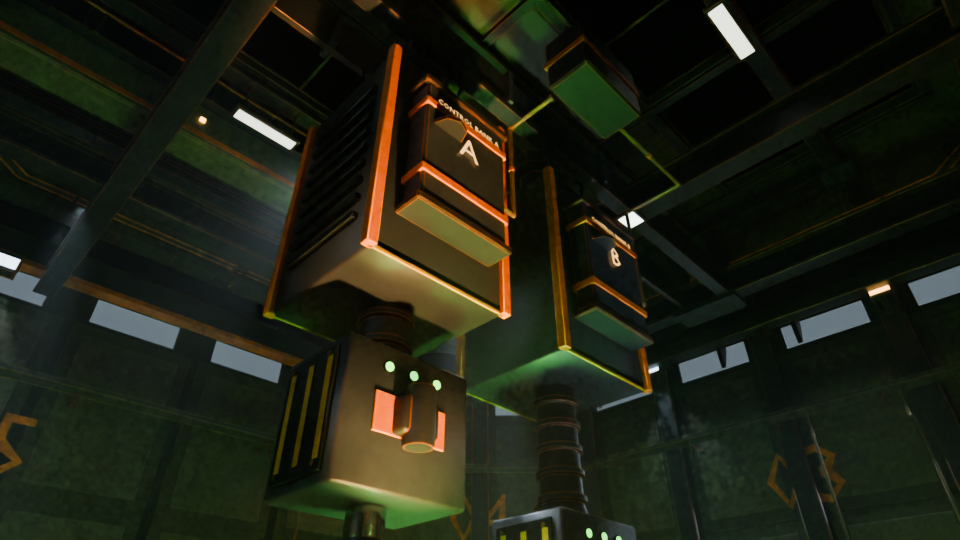
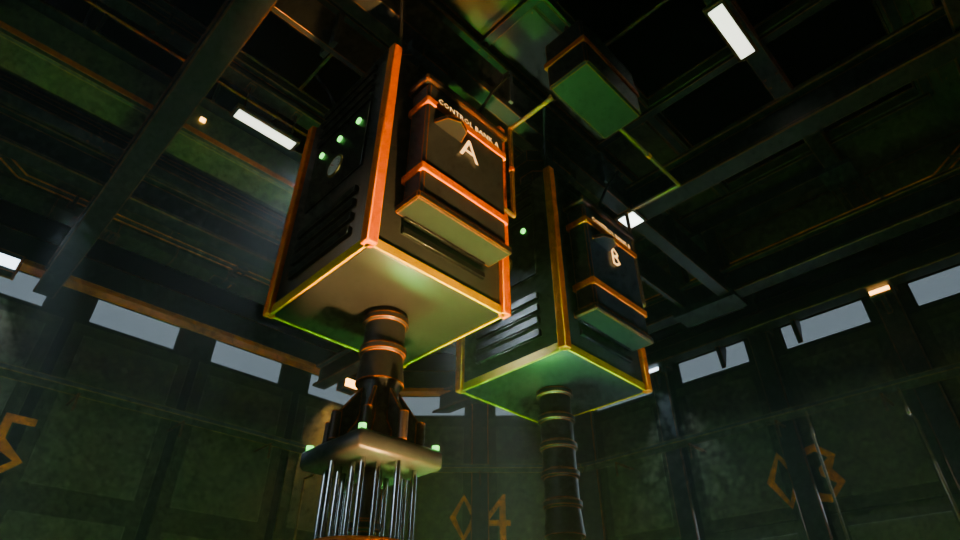
Reactor pool: control-rod banks rebuilt as rod-cluster assemblies, identical and symmetric
Spider hub with 8 vanes, 16 absorber pins with glowing tips, spacer grids, glowing rings, end plate;
housings with four identical sides. Contract objects keep names/parents/pivots; heights stay A 8.4 / B 7.4.

Claude-Session: https://claude.ai/code/session_01MZn6W3mktoSNAd4EhQyGwJ

diff --git a/sections/reactor-room/production/overhaul-R1/scripts/rp_rods.py b/sections/reactor-room/production/overhaul-R1/scripts/rp_rods.py
@@ -37,87 +37,101 @@ def z_levels(o):
     return [sum(g)/len(g) for g in out]
 tris0=sum(len(p.vertices)-2 for c in (POOLC,BANKC) for o in c.all_objects if o.type=='MESH' for p in o.data.polygons)
 def bank(tag,x,pz):
+    """one control-rod bank as a real rod-cluster control assembly, identical for A and B (radially symmetric about the rod axis x,0): handle (stem), spider hub with 8 vanes, top plate (carriage),
+    17-rod absorber cage (16 pins + central drive tube) with spacer grids, glowing grid rings and glowing pin tips, end plate and nose; housing with four identical sides"""
     piv=bpy.data.objects["BANK_%s_MOVING"%tag]; col=bpy.data.objects["BANK_%s_DRIVE_COLUMN"%tag]; car=bpy.data.objects["BANK_%s_CARRIAGE"%tag]; hou=bpy.data.objects["BANK_%s_FIXED_HOUSING"%tag]
     def find(sub): return next(o for o in bpy.data.objects if o.name.startswith("R2 bank %s "%tag) and sub in o.name)
-    # ---- turned drive column: collars every 1.25 m, chamfered
-    prof=[(0.0,-5.0),(0.165,-5.0)]
-    z=-4.4
-    while z<7.6:
-        prof+= [(0.165,z-0.075),(0.205,z-0.045),(0.205,z+0.045),(0.165,z+0.075)]; z+=1.25
-    prof+=[(0.165,7.75),(0.0,7.75)]
-    K=crk.Kit(); K.lathe(("rp","IRON"),x,0.0,prof,seg=24)
-    swap(col,K,"IRON")
-    # polished stripes between the collars (chrome sleeves)
-    K=crk.Kit(); z=-3.775
-    while z<7.5:
-        K.lathe(("rp","CHROME"),x,0.0,[(0.172,z+0.02),(0.176,z+0.04),(0.176,z+0.98),(0.172,z+1.0)],seg=24); z+=1.25
-    attach(K.build(BANKC,"RP bank %s rod sleeves"%tag,M),piv)
-    # ---- rod tip: bullet nose
-    tip=find("rod tip")
-    K=crk.Kit(); K.lathe(("rp","IRON"),x,0.0,[(0.0,-5.27),(0.10,-5.255),(0.19,-5.20),(0.25,-5.11),(0.27,-5.03),(0.27,-5.0)],seg=24); swap(tip,K,"IRON")
-    # ---- state bands: turned rings at the same heights
-    for sub in ("rod band GLOW","rod band TRIM"):
-        b=find(sub); L=z_levels(b); K=crk.Kit()
+    RING=[(0.0,k*math.pi/4) for k in range(0)]
+    # ---- central drive tube (the contract DRIVE_COLUMN): slim collared tube from the plate down to the end plate
+    prof=[(0.0,pz-13.4),(0.105,pz-13.4)]; z=pz-12.8
+    while z<pz-0.5:
+        prof+=[(0.105,z-0.05),(0.135,z-0.03),(0.135,z+0.03),(0.105,z+0.05)]; z+=1.5
+    prof+=[(0.105,pz-0.30),(0.0,pz-0.30)]
+    K=crk.Kit(); K.lathe(("rp","IRON"),x,0.0,prof,seg=20); swap(col,K,"IRON")
+    # ---- 16 absorber pins: 8 on the outer ring (r 0.40, under the vane tips), 8 on the inner ring (r 0.28, between them); polished, with glowing tips
+    K=crk.Kit(); G=crk.Kit()
+    for k in range(8):
+        for r,off in ((0.40,0.0),(0.28,math.pi/8)):
+            th=k*math.pi/4+off; px,py=x+r*math.cos(th),r*math.sin(th)
+            K.cyl(("rp","CHROME"),px,py,pz-13.28,pz-0.30,0.026,6,0.0)
+            K.lathe(("rp","CHROME"),px,py,[(0.026,pz-13.28),(0.026,pz-13.33),(0.014,pz-13.36),(0.0,pz-13.37)],seg=6)
+            G.lathe(("rp","GLOW"),px,py,[(0.0,pz-13.43),(0.034,pz-13.41),(0.040,pz-13.36),(0.034,pz-13.31),(0.0,pz-13.29)],seg=8)
+    attach(K.build(BANKC,"RP bank %s absorber pins"%tag,M),piv); attach(G.build(BANKC,"RP bank %s pin tips"%tag,M),piv)
+    for o in [o for o in bpy.data.objects if o.name.startswith("R2 bank %s moving bank %s carriage plate"%(tag,tag))]: bpy.data.objects.remove(o,do_unlink=True)   # the old flat plate on the old crosshead
+    # ---- end plate + nose (the contract rod tip)
+    tip=find("rod tip"); K=crk.Kit()
+    K.lathe(("rp","IRON"),x,0.0,[(0.0,pz-13.62),(0.09,pz-13.60),(0.16,pz-13.54),(0.20,pz-13.47),(0.46,pz-13.47),(0.48,pz-13.45),(0.48,pz-13.40),(0.0,pz-13.40)],seg=24)
+    swap(tip,K,"IRON")
+    # ---- spacer grids at the old TRIM band heights (egg-crate: outer frame + 8 spokes), glowing rings at the old GLOW band heights
+    def levels(sub):
+        L=z_levels(find(sub)); out=[]
         for i in range(0,len(L)-1,2):
-            z0,z1=L[i],L[i+1]
-            if z1-z0>0.6: continue
-            K.lathe(("rp","IRON"),x,0.0,[(0.18,z0),(0.222,z0+0.025),(0.222,z1-0.025),(0.18,z1)],seg=24)
-        if K.bm: swap(b,K,"IRON")
-    # ---- stem: ribbed sleeve between carriage and housing
-    stem=find("stem"); prof=[(0.0,9.05),(0.30,9.05),(0.30,9.12)]; z=9.30
-    while z<11.4:
-        prof+=[(0.26,z-0.05),(0.30,z-0.03),(0.30,z+0.03),(0.26,z+0.05)]; z+=0.30
-    prof+=[(0.30,11.4),(0.30,11.5),(0.0,11.5)]
-    for i,(r,zz) in enumerate(prof): prof[i]=(r,zz-8.4+pz)
-    K=crk.Kit(); K.lathe(("rp","IRON"),x,0.0,prof,seg=24); swap(stem,K,"IRON")
-    # ---- guide shoe: clamp block with two arms and vertical rollers
-    shoe=find("guide shoe"); K=crk.Kit(); c0=pz-0.45
-    K.pillow(("rp","IRON"),x-0.30,x+0.30,-0.36,0.36,c0+0.12,c0+0.78,0.03,1)
-    for s in (-1,1):
-        K.pillow(("rp","IRON"),x-0.20,x+0.20,0.30*s if s>0 else -0.70,0.70 if s>0 else -0.30,c0+0.28,c0+0.62,0.04,2)
-        K.lathe(("rp","IRON"),x,0.66*s,[(0.0,c0+0.18),(0.13,c0+0.18),(0.14,c0+0.21),(0.14,c0+0.69),(0.13,c0+0.72),(0.0,c0+0.72)],seg=18)
-    swap(shoe,K,"IRON")
-    # ---- carriage: crosshead block (same box), then detail
-    cb=crk.Kit(); cb.pillow(("rp","ENAM"),x-0.72,x+0.72,-0.52,0.52,pz-0.65,pz+0.65,0.035,1); swap(car,cb,"ENAM")
+            if L[i+1]-L[i]<=0.6: out.append((L[i],L[i+1]))
+        return out
     K=crk.Kit()
-    for sx in (-1,1):                                                   # side flanges with hex bolts, vertical hazard stripes, rubber bumpers
-        xs=x+sx*0.72
-        K.fb(("rp","GUN"),'+x' if sx>0 else '-x',xs,-0.40,0.40,pz-0.55,pz+0.55,0.035,0.01)
-        for k in range(3): K.fb(("rp","HAZ"),'+x' if sx>0 else '-x',xs+0.035*sx,-0.36+k*0.30,-0.28+k*0.30,pz-0.45,pz+0.45,0.008,0.002)
-        for yy in (-0.30,0.30):
-            for zz in (pz-0.48,pz+0.48): K.prism(("rp","BRASS"),(xs+0.035*sx,yy,zz),(xs+0.05*sx,yy,zz),0.028,0.028,6,0.0,True,0.0)
-    for k in range(6): K.fb(("rp","GUN"),'+y',0.52,x-0.55,x+0.55,pz-0.45+k*0.14,pz-0.40+k*0.14,0.03,0.004)   # louvres on the back face
-    for sx in (-0.45,0.45):                                              # lifting eyes on top
-        K.tube(("rp","IRON"),[(x+sx+0.07*math.cos(t),0.0+0.0,pz+0.65+0.045+0.07*math.sin(t)) for t in np.linspace(0,2*math.pi,13)],0.016,6)
-    for k in range(3):                                                   # status lamps on the front face above the plate
-        K.cyly(("rp","GLOW"),x-0.28+k*0.28,-0.52,-0.545,pz+0.43,0.045,14,0.0); K.cyly(("rp","GUN"),x-0.28+k*0.28,-0.52,-0.535,pz+0.43,0.062,14,0.0)
-    attach(K.build(BANKC,"RP bank %s carriage detail"%tag,M),piv)
-    # ---- fixed housing: pillow body, corner posts, fins, hatch, gauge, glands, lugs
+    for (z0,z1) in levels("rod band TRIM"):
+        K.lathe(("rp","IRON"),x,0.0,[(0.455,z0),(0.48,z0+0.02),(0.48,z1-0.02),(0.455,z1)],seg=24); K.lathe(("rp","IRON"),x,0.0,[(0.425,z0),(0.455,z0),(0.455,z1),(0.425,z1)],seg=24)
+        for k in range(8):
+            th=k*math.pi/4+math.pi/8; K.box(("rp","IRON"),x+0.27*math.cos(th),0.27*math.sin(th),z0+0.02,z1-0.02,0.34,0.03,th,0.0)
+    swap(find("rod band TRIM"),K,"IRON")
+    K=crk.Kit()
+    for (z0,z1) in levels("rod band GLOW"):
+        zc=(z0+z1)/2; K.lathe(("rp","IRON"),x,0.0,[(0.425,zc-0.07),(0.47,zc-0.05),(0.485,zc-0.03),(0.485,zc+0.03),(0.47,zc+0.05),(0.425,zc+0.07)],seg=24)
+    swap(find("rod band GLOW"),K,"IRON")
+    # ---- spider hub + 8 vanes (the contract guide shoe), top plate (the contract carriage), handle (the contract stem)
+    shoe=find("guide shoe"); K=crk.Kit()
+    K.lathe(("rp","IRON"),x,0.0,[(0.0,pz-0.12),(0.30,pz-0.12),(0.30,pz-0.04),(0.22,pz+0.08),(0.17,pz+0.30),(0.20,pz+0.50),(0.22,pz+0.56),(0.0,pz+0.56)],seg=24)
+    t=0.04
+    for k in range(8):
+        th=k*math.pi/4; c,sn=math.cos(th),math.sin(th); pts=[]
+        for rr,w0,w1 in ((0.20,-0.12,0.42),(0.43,-0.12,0.10)):
+            for dt in (-t/2,t/2):
+                for w in (w0,w1): pts.append((x+rr*c-dt*sn,rr*sn+dt*c,pz+w))
+        K.hull(("rp","IRON"),pts,0.004)
+        K.cyl(("rp","IRON"),x+0.43*c,0.43*sn,pz-0.14,pz+0.12,0.045,8,0.0)            # vane-tip post
+    swap(shoe,K,"IRON")
+    cb=crk.Kit(); cb.pillow(("rp","ENAM"),x-0.47,x+0.47,-0.47,0.47,pz-0.32,pz-0.14,0.035,1); swap(car,cb,"ENAM")
+    stem=find("stem"); prof=[(0.0,pz+0.50),(0.24,pz+0.50)]; z=pz+0.85
+    while z<pz+3.0:
+        prof+=[(0.21,z-0.05),(0.24,z-0.03),(0.24,z+0.03),(0.21,z+0.05)]; z+=0.35
+    prof+=[(0.24,pz+3.02),(0.30,pz+3.04),(0.30,pz+3.10),(0.20,pz+3.10),(0.0,pz+3.10)]
+    K=crk.Kit(); K.lathe(("rp","IRON"),x,0.0,prof,seg=24); swap(stem,K,"IRON")
+    # ---- glow on the assembly: vane-edge strips, top-plate corner lamps
+    K=crk.Kit()
+    for k in range(8):
+        th=k*math.pi/4; c,sn=math.cos(th),math.sin(th); K.box(("rp","GLOW"),x+0.435*c,0.435*sn,pz-0.10,pz+0.08,0.025,0.055,th,0.002)
+    for sx in (-1,1):
+        for sy in (-1,1): K.cyl(("rp","GLOW"),x+sx*0.41,sy*0.41,pz-0.14,pz-0.10,0.035,10,0.0)
+    attach(K.build(BANKC,"RP bank %s spider glow"%tag,M),piv)
+    # ---- fixed housing: four identical sides (fins above and below a lamp-and-gauge panel), corner posts, roof crown, hazard skirt, corner cable glands
     hb=crk.Kit(); hb.pillow(("rp","IRON"),x-0.88,x+0.88,-0.88,0.88,9.70,12.62,0.035,1); swap(hou,hb,"IRON")
     K=crk.Kit()
     for sx in (-1,1):
-        for sy in (-1,1): K.bx(("rp","TRIM"),x+sx*0.88-0.06,x+sx*0.88+0.06,sy*0.88-0.06,sy*0.88+0.06,9.70,12.62,0.012)   # corner posts
-    for k in range(9):                                                   # cooling fins on the outer side (away from the other bank)
-        so=-1 if x<0 else 1; xo=x+so*0.88
-        K.fb(("rp","GUN"),'+x' if so>0 else '-x',xo,-0.62,0.62,10.15+k*0.24,10.15+k*0.24+0.085,0.07,0.01)
-    K.fb(("rp","GUN"),'+y',0.88,x-0.55,x+0.55,10.1,12.2,0.025,0.01)       # access hatch on the back face with hinges, handle and bolts
-    for zz in (10.35,11.95): K.cylx(("rp","IRON"),x-0.60,x-0.52,0.915,zz,0.035,10,0.0)
-    K.fb(("rp","BRASS"),'+y',0.905,x+0.30,x+0.44,11.0,11.30,0.03,0.006)
-    for xx in (x-0.45,x+0.45):
-        for zz in (10.2,12.1): K.prism(("rp","BRASS"),(xx,0.905,zz),(xx,0.93,zz),0.03,0.03,6,0.0,True,0.0)
-    gx,gz=x-0.05,11.15; gy=0.95                                          # pressure gauge on the hatch
-    K.cyly(("rp","BRASS"),gx,0.905,0.94,gz,0.14,28,0.004); K.cyly(("rp","WHITE"),gx,0.94,0.944,gz,0.115,28,0.0)
-    for k in range(11):
-        th=math.radians(-120+k*24); r0,r1=0.085,0.108 if k%5==0 else 0.100
-        K.tube(("rp","BLK"),[(gx-math.sin(th)*r0,0.9445,gz+math.cos(th)*r0),(gx-math.sin(th)*r1,0.9445,gz+math.cos(th)*r1)],0.0025,4)
-    K.tube(("rp","RED"),[(gx,0.9455,gz),(gx-0.065,0.9455,gz+0.05)],0.004,4)
-    for (xx,yy) in ((x-0.35,0.6),(x-0.15,-0.6),(x+0.15,0.6),(x+0.35,-0.6)): K.cyl(("rp","GUN"),xx,yy,12.62,12.76,0.05,10,0.0)   # cable glands
-    for (xx,yy,dx) in ((x-0.35,0.6,-0.25),(x+0.35,-0.6,0.25)):
-        K.tube(("rp","BLK"),[(xx,yy,12.74),(xx,yy,13.0),(xx+dx*0.3,yy+0.0,13.35),(xx+dx,yy*0.6,13.75)],0.022,8)
-    for sx in (-0.5,0.5):                                                # lifting lugs on the roof
-        K.tube(("rp","IRON"),[(x+sx,0.0+0.075*math.cos(t),12.62+0.045+0.075*math.sin(t)) for t in np.linspace(0,2*math.pi,13)],0.018,6)
-        K.cyl(("rp","GUN"),x+sx,0.0,12.62,12.665,0.07,12,0.0)
-    K.bx(("rp","HAZ"),x-0.88,x+0.88,-0.88,-0.855,9.70,9.80,0.003); K.bx(("rp","HAZ"),x-0.88,x+0.88,0.855,0.88,9.70,9.80,0.003)   # hazard skirt strips
+        for sy in (-1,1): K.bx(("rp","TRIM"),x+sx*0.88-0.06,x+sx*0.88+0.06,sy*0.88-0.06,sy*0.88+0.06,9.70,12.62,0.012)
+    for face in range(4):
+        th=face*math.pi/2; c,sn=math.cos(th),math.sin(th)                         # outward normal (c,sn), tangent (-sn,c)
+        def P(r,tt,z): return (x+r*c-tt*sn,r*sn+tt*c,z)
+        for k in range(4):                                                        # cooling fins above and below the panel
+            for zb in (10.00+k*0.18,11.98+k*0.18): K.box(("rp","GUN"),x+0.905*c,0.905*sn,zb,zb+0.075,0.05,1.10,th,0.008)
+        if face==3: continue                                                      # the front face already carries the face plate and the bank letter
+        K.box(("rp","GUN"),x+0.895*c,0.895*sn,10.92,11.93,0.03,1.10,th,0.006)     # instrument panel
+        for tt in (-0.38,0.0,0.38):                                               # three glowing lamps
+            K.prism(("rp","GLOW"),P(0.905,tt,11.72),P(0.935,tt,11.72),0.040,0.040,12,0.0,True,0.0)
+        K.prism(("rp","BRASS"),P(0.905,0.0,11.28),P(0.925,0.0,11.28),0.15,0.15,28,0.0,True,0.003); K.prism(("rp","WHITE"),P(0.925,0.0,11.28),P(0.929,0.0,11.28),0.125,0.125,28,0.0,True,0.0)
+        for kk in range(11):
+            ang=math.radians(-120+kk*24); r0,r1=0.085,0.115 if kk%5==0 else 0.105
+            K.tube(("rp","BLK"),[P(0.9295,-math.sin(ang)*r0,11.28+math.cos(ang)*r0),P(0.9295,-math.sin(ang)*r1,11.28+math.cos(ang)*r1)],0.0028,4)
+        K.tube(("rp","RED"),[P(0.930,0.0,11.28),P(0.930,-0.07,11.28+0.055)],0.0045,4)
+    for face in range(4):                                                         # hazard skirt strip on every side
+        th=face*math.pi/2; c,sn=math.cos(th),math.sin(th)
+        K.box(("rp","HAZ"),x+0.885*c,0.885*sn,9.70,9.80,0.03,1.76,th,0.004)
+    for sx in (-1,1):                                                             # cable glands at the four roof corners, cables up to the gantry
+        for sy in (-1,1):
+            gx,gy=x+sx*0.70,sy*0.70; K.cyl(("rp","GUN"),gx,gy,12.62,12.76,0.05,10,0.0)
+            K.tube(("rp","BLK"),[(gx,gy,12.74),(gx,gy,13.0),(gx+sx*0.12,gy+sy*0.12,13.4),(gx+sx*0.30,gy+sy*0.30,13.8)],0.022,8)
+    K.lathe(("rp","GUN"),x,0.0,[(0.60,12.62),(0.60,12.69),(0.46,12.76),(0.30,12.76),(0.30,12.92),(0.22,12.98),(0.0,12.98)],seg=24)   # roof crown
+    for k in range(8):
+        th=k*math.pi/4; K.prism(("rp","BRASS"),(x+0.52*math.cos(th),0.52*math.sin(th),12.69),(x+0.52*math.cos(th),0.52*math.sin(th),12.735),0.03,0.03,6,0.0,True,0.0)
     attach(K.build(BANKC,"RP bank %s housing detail"%tag,M),None)
 bank("A",-1.4,8.4); bank("B",1.4,7.4)
 # ---- fuel-assembly lattice on the pool floor (under the water): 8 bundles around the rod tips, caps tinted by the shared state glow

diff --git a/sections/reactor-room/production/overhaul-R1/README.md b/sections/reactor-room/production/overhaul-R1/README.md
@@ -248,11 +248,11 @@ The hall-side window glass is now fully clear (`CR window glass clear`: alpha 0.
 - **Not done:** no collision proxies for the lift or anteroom; the car has no door leaves of its own (the landing leaves open and close); linear ride (no ease in/out); the lightmaps and the walk-through video predate all of this and are stale.
 - **Review renders:** `lift_p1..p17_*.png` (p5 TV wall, p13 couch and print, p14 mirror, p15 car from the door corner, p16 car ceiling and coves, p17 car door to panel).
 
-### Reactor pool centrepiece: control-rod banks and housings (`scripts/rp_rods.py`)
-Run after the control-room pipeline (`rp_rods.py -- in.blend out.blend`); it touches only collections `03 POOL AND RAIL` and `04 BANK MECHANISMS`. Contract objects keep their names, parents and pivots (`BANK_A/B_MOVING` empties, `BANK_x_DRIVE_COLUMN`, `BANK_x_CARRIAGE`, `BANK_x_FIXED_HOUSING`): they get new geometry in place with the same bounding box and materials, so anything bound to them keeps working (checked: moving the pivot carries every `RP` child).
-- Rod columns: turned lathe profile with chamfered collars every 1.25 m, polished sleeves between them, bullet-nosed tips, state bands rebuilt as turned rings at their original heights (they keep the stability-driven `R2 state glow` material), ribbed sleeve stem.
-- Carriages: crosshead blocks with side flanges, hazard stripes, hex bolts, rear louvres, lifting eyes, three status lamps; guide shoes with arms and vertical rollers.
-- Fixed housings: crisp chamfered housings with corner posts, cooling fins, access hatch with hinges and bolts, a brass pressure gauge, cable glands with cables to the gantry, roof lifting lugs and hazard skirt strips.
-- Pool floor: eight fuel-assembly bundles (pin grids, state-tinted caps) around the rod tips; they sit under the opaque water, so they are only seen if the water is made clearer.
-- Numbers: collections 03 + 04 went from 71.6k to 98.5k triangles (+27k); `cr_verify`, `verify_piping`, `clearance` and `fps_independence_check` pass. Not engine-measured; no collision or LOD work; the water, pool lining, guardrail and gantry are unchanged.
-- Renders: `pool_rods_hero.png`, `pool_rods_housing.png`, `pool_rods_carriage.png`, `pool_rods_looking_up.png`.
+### Reactor pool centrepiece: control-rod banks as rod-cluster assemblies (`scripts/rp_rods.py`)
+Run after the control-room pipeline (`rp_rods.py -- in.blend out.blend`); it touches only collections `03 POOL AND RAIL` and `04 BANK MECHANISMS`. Both banks are rebuilt to the same radially symmetric design after the owner's reference photo of a real rod-cluster control assembly (handle, spider hub with radial vanes, cage of thin pins, spacer grids, end plate). Contract objects keep their names, parents and pivots (`BANK_A/B_MOVING` empties, `BANK_x_DRIVE_COLUMN`, `BANK_x_CARRIAGE`, `BANK_x_FIXED_HOUSING`, plus the old stem, guide shoe, tip and band objects): they receive new geometry in place with their materials, and every new moving part is parented to the `MOVING` empty (checked: moving the pivot carries it).
+- **Moving assembly (each bank):** ribbed handle, spider hub with 8 vanes and vane-tip posts, square top plate, a central drive tube, 16 polished absorber pins on two rings (r 0.28 and 0.40) with glowing tips, egg-crate spacer grids (outer frame plus 8 spokes) at the old band heights, glowing grid rings between them, end plate and nose. The glow uses the existing stability-driven `R2 state glow`, so it turns amber and red with the reactor state like the state rings.
+- **Fixed housings:** four identical sides (cooling fins above and below an instrument panel with three glowing lamps and a brass gauge; the front side keeps its face plate and bank letter), corner posts, roof crown with bolt ring, four corner cable glands with cables to the gantry, hazard skirt strips.
+- **Heights differ by design:** bank A rests at 8.4 m and B at 7.4 m (the control-room readouts and the `b3.py` keyframes say so); only the geometry is identical.
+- **Pool floor:** eight fuel bundles around the rod tips; they sit under the opaque water, so they are only seen if the water is made clearer.
+- **Numbers:** collections 03 + 04 went from 71.6k to 106.1k triangles (+34.5k, mostly the spacer grids and pins); `cr_verify`, `verify_piping`, `clearance` and `fps_independence_check` pass. Not engine-measured; no collision or LOD work; the water, pool lining, guardrail and gantry are unchanged.
+- Renders: `pool_rods_hero.png`, `pool_rods_spider.png`, `pool_rods_cage.png`, `pool_rods_housing.png`.
